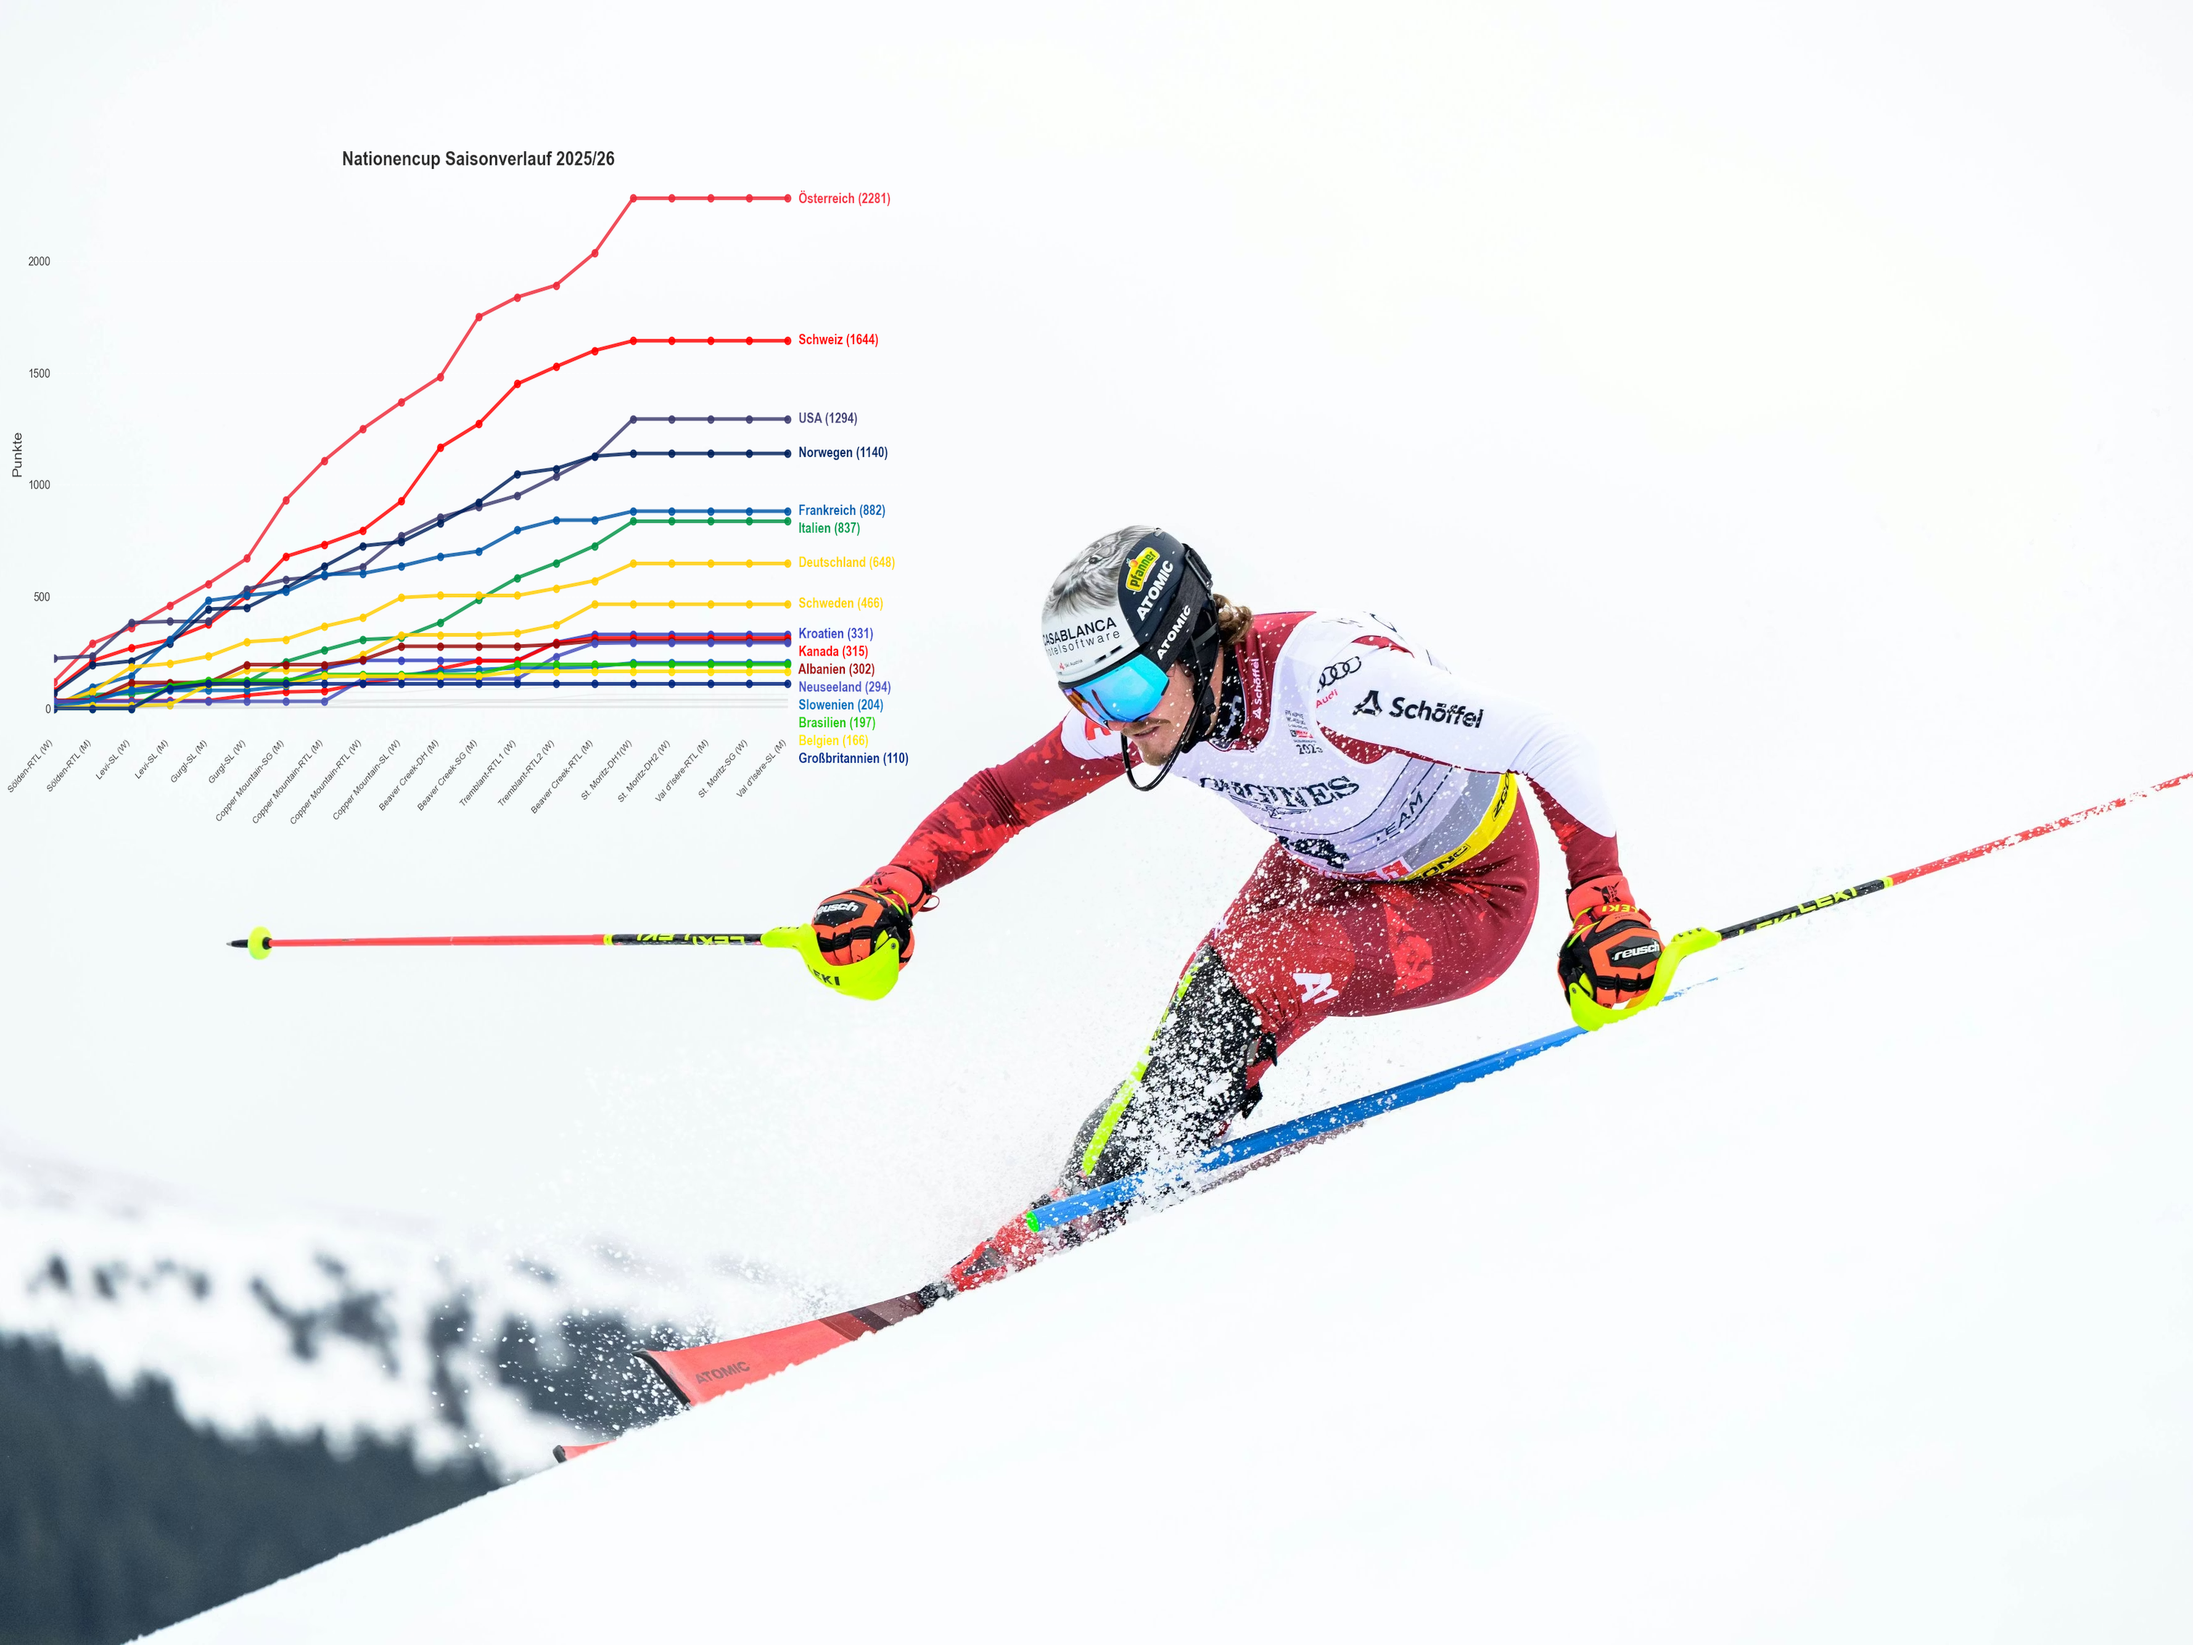
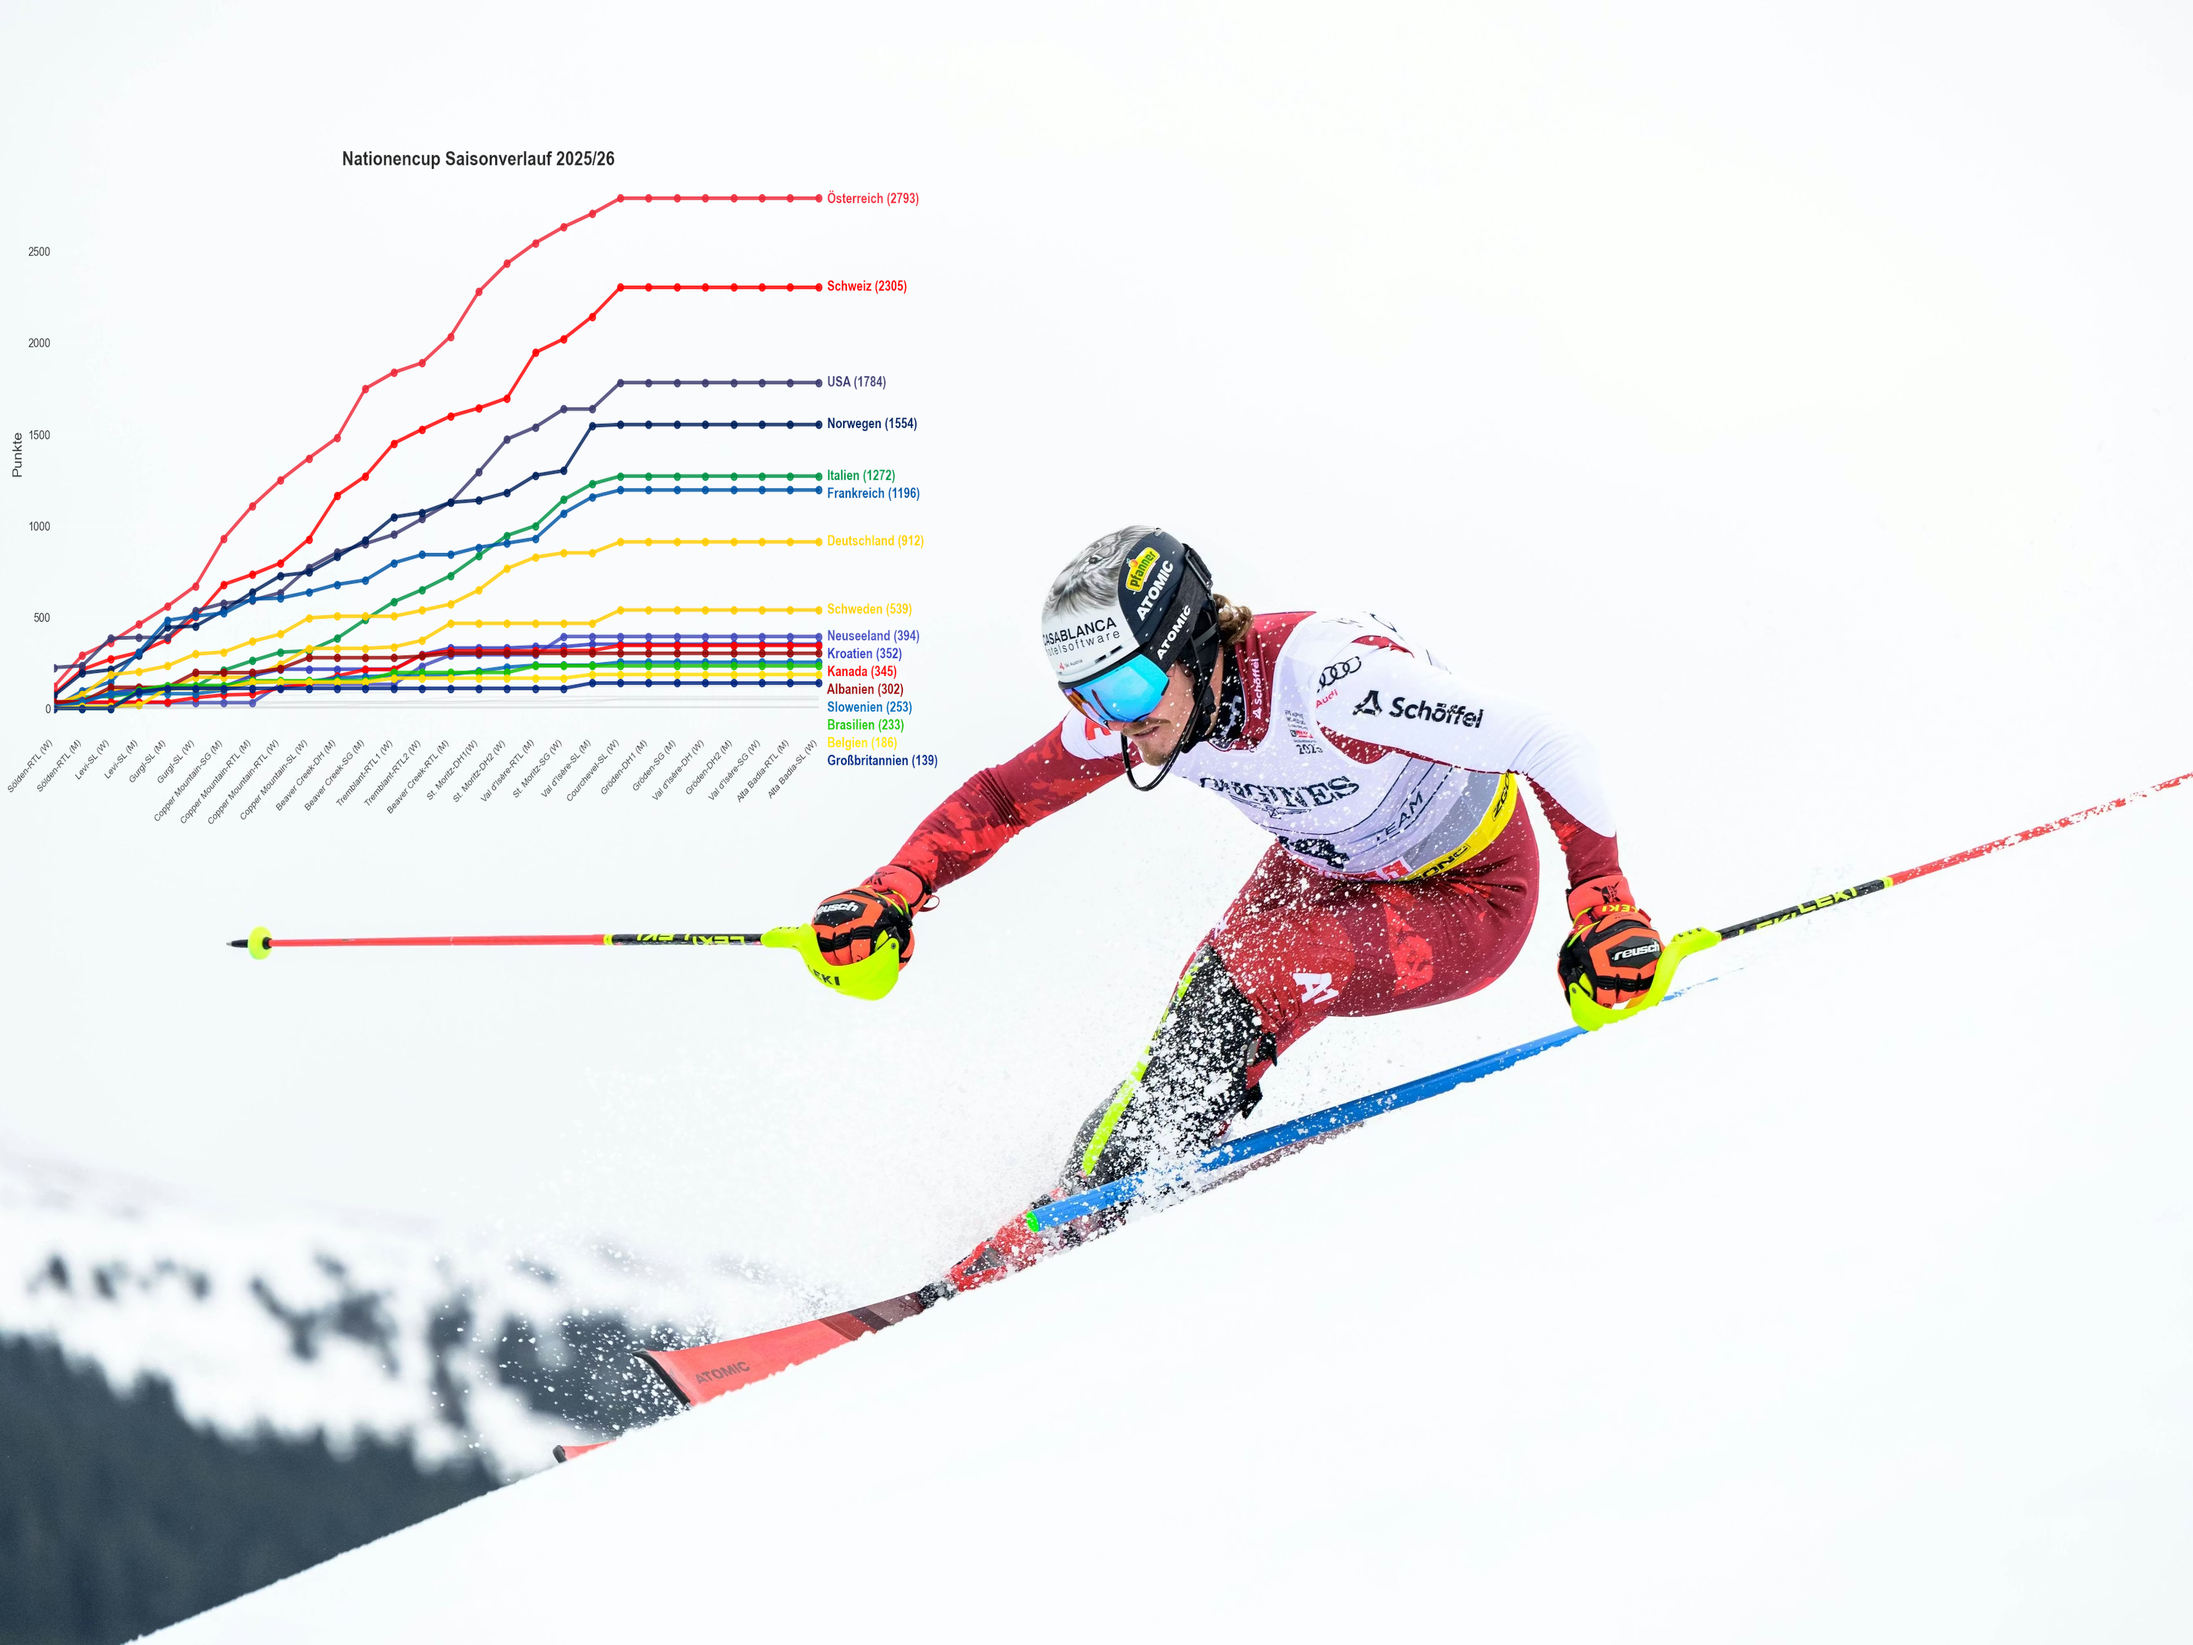
IDs aktualisiert

diff --git a/scraper.py b/scraper.py
@@ -24,7 +24,7 @@ season_results_list = []
 season_races = [
     127331, 127332, 127333, 127334, 127335, 127336,
     127440, 127441, 127442, 127443,
-    127340, 127341, 127342, 127343, 127344, 127347, 127348, 127350, 127349, 127351
+    127340, 127341, 127342, 127343, 127344, 127347, 127348, 127350, 127349, 127351, 127352, 127339, 127357, 127360, 127356, 127361, 127362, 127363
 ]
 # Link für die FIS-Seite zum schnelleren Suchen und Hinzufügen neuer IDs: 
 # https://www.fis-ski.com/DB/alpine-skiing/calendar-results.html?eventselection=&place=&sectorcode=AL&seasoncode=2026&categorycode=WC&disciplinecode=&gendercode=&racedate=&racecodex=&nationcode=&seasonmonth=X-2026&saveselection=-1&seasonselection=

diff --git a/ski_nationencup_25-26.py b/ski_nationencup_25-26.py
@@ -67,7 +67,15 @@ RACE_ID_TO_NAME = {
     "127348": "St. Moritz-DH2 (W)",
     "127350": "Val d'Isère-RTL (M)",
     "127349": "St. Moritz-SG (W)",
-    "127351": "Val d'Isère-SL (M)"
+    "127351": "Val d'Isère-SL (M)",
+    "127352": "Courchevel-SL (W)",
+    "127339": "Gröden-DH1 (M)",
+    "127357": "Gröden-SG (M)",
+    "127360": "Val d'Isère-DH (W)",
+    "127356": "Gröden-DH2 (M)",
+    "127361": "Val d'Isère-SG (W)",
+    "127362": "Alta Badia-RTL (M)",
+    "127363": "Alta Badia-SL (W)"
 }
 
 # Liste der Nationen, die beschriftet werden sollen (Namen müssen zum Mapping oben passen)
